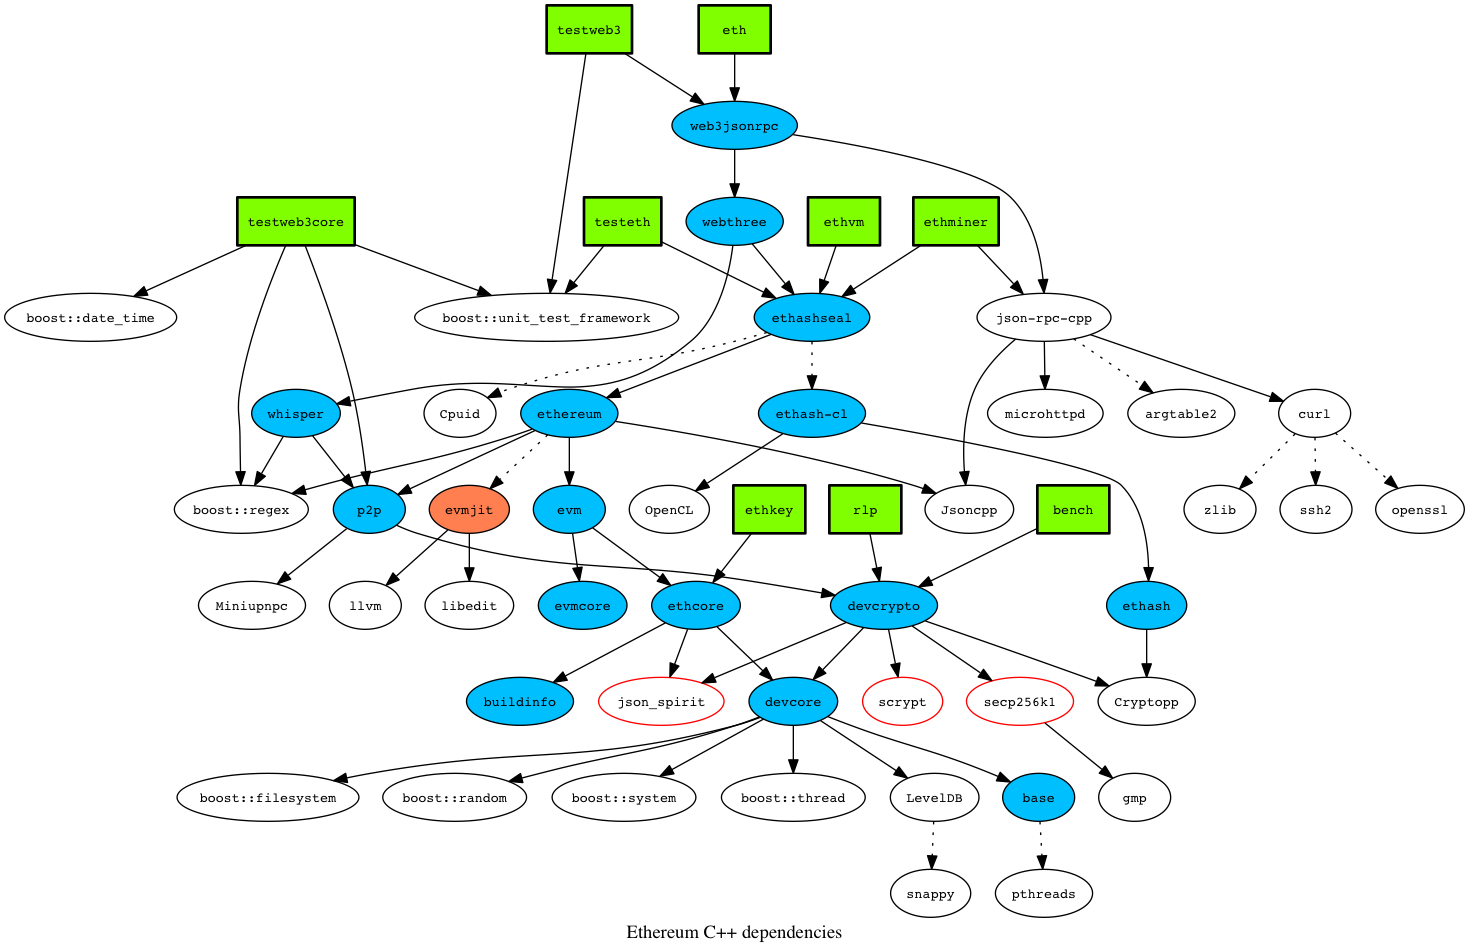
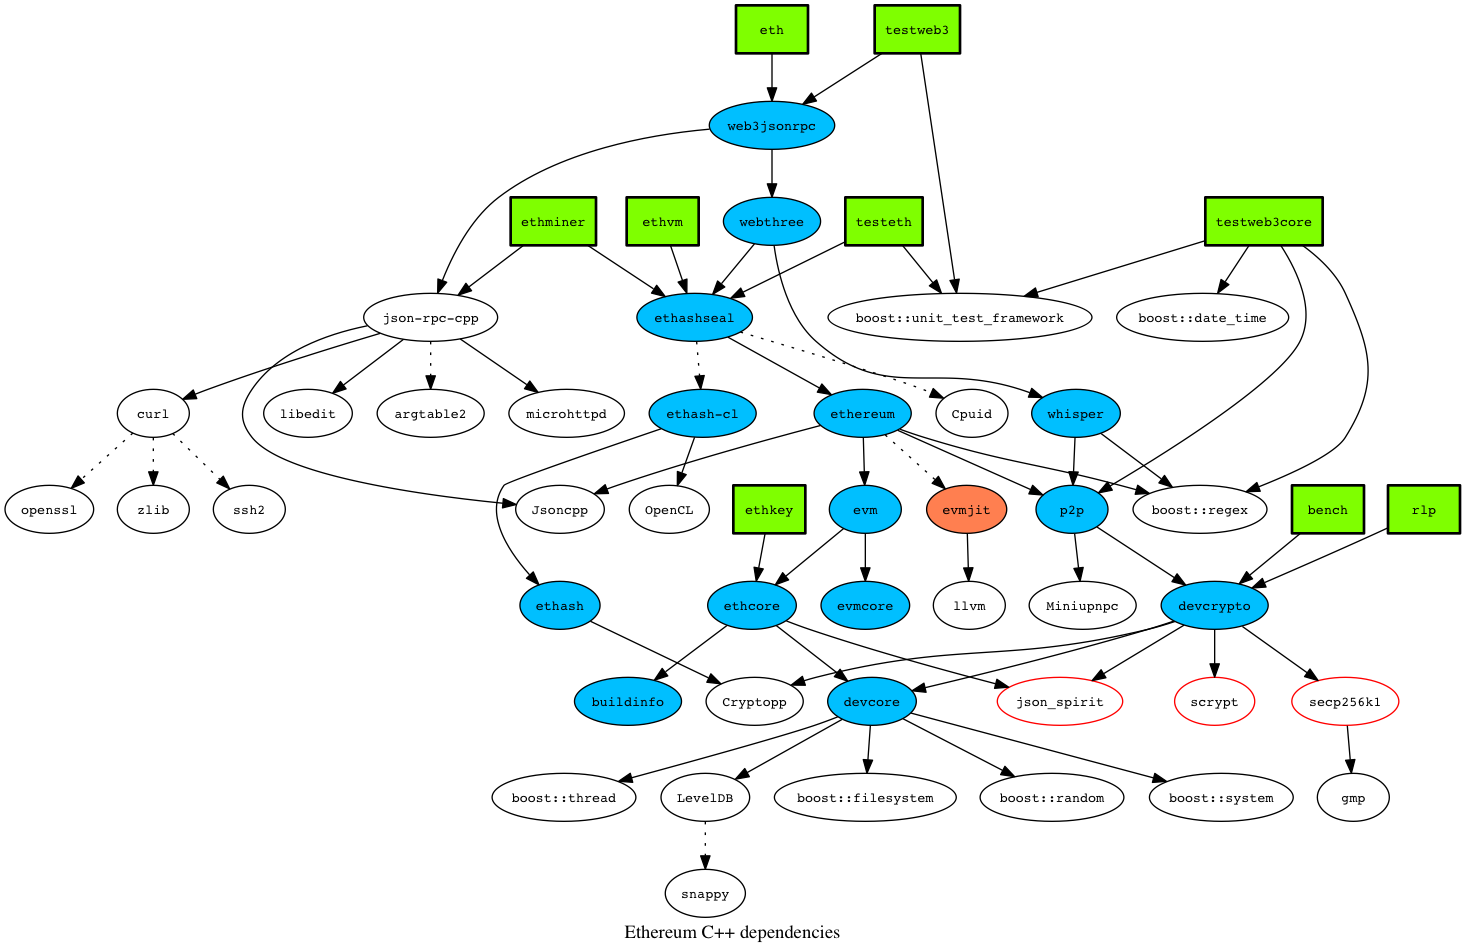
Stripped out the last bits of "base" support. Updated the diagram. All the pthreads dependencies are now done explicitly.

diff --git a/doc/dependency_graph/generate.py b/doc/dependency_graph/generate.py
@@ -142,7 +142,6 @@ print ''
 print '    compound = true'
 print ''
 print '    "buildinfo" [style=filled,fillcolor=deepskyblue]'
-print '    "base" [style=filled,fillcolor=deepskyblue]'
 print '    "json_spirit" [color=red]'
 print '    "scrypt" [color=red]'
 print '    "secp256k1" [color=red]'
@@ -150,12 +149,10 @@ print '    "testeth" [shape=box;style=filled,penwidth=2,fillcolor=chartreuse]'
 print '    "testweb3" [shape=box;style=filled,penwidth=2,fillcolor=chartreuse]'
 print '    "testweb3core" [shape=box;style=filled,penwidth=2,fillcolor=chartreuse]'
 print ''
-print '    "base" -> "pthreads" [style=dotted]'
 print '    "bench" -> "devcrypto"'
 print '    "curl" -> "ssh2"  [style=dotted]'
 print '    "curl" -> "openssl"  [style=dotted]'
 print '    "curl" -> "zlib"  [style=dotted]'
-print '    "devcore" -> "base"'
 print '    "devcore" -> "boost::filesystem"'
 print '    "devcore" -> "boost::random"'
 print '    "devcore" -> "boost::system"'
